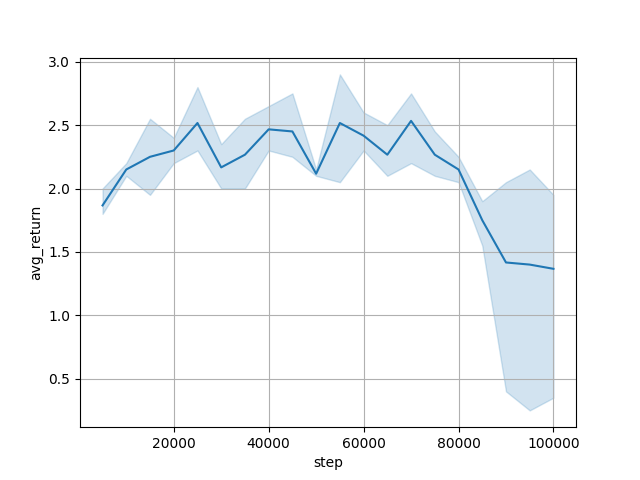
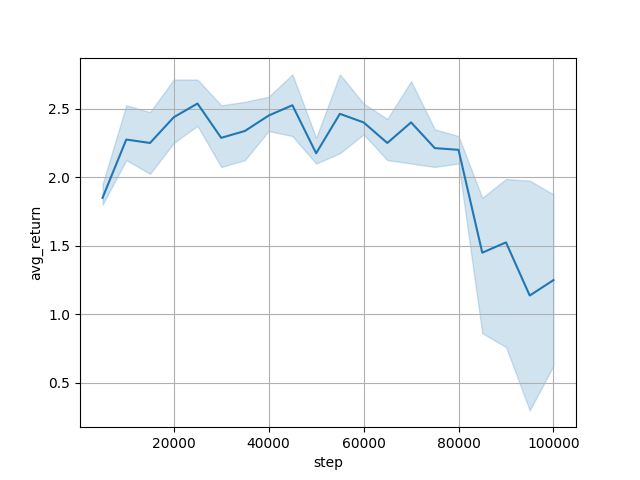
Added visualisation for 4 seeds of the trained agents.

diff --git a/analysis/plot_ability_spectrum.py b/analysis/plot_ability_spectrum.py
@@ -59,6 +59,7 @@ if __name__ == '__main__':
     import os
     from src.utils.constant_builder import PathBuilder, AgentTypes
 
+    clip_to_num_seeds = 4
     in_dirs = [
         PathBuilder.RANDOM_AGENT_LOG_DIR,
         PathBuilder.DQN_AGENT_LOG_DIR,
@@ -79,7 +80,7 @@ if __name__ == '__main__':
         save_path=path_to_save,
         legend=agent_legend,
         colors=agent_colors,
-        clip_seeds_to=3
+        clip_seeds_to=clip_to_num_seeds
     )
 
     in_dirs = [
@@ -102,7 +103,7 @@ if __name__ == '__main__':
         save_path=path_to_save,
         legend=agent_legend,
         colors=agent_colors,
-        clip_seeds_to=3
+        clip_seeds_to=clip_to_num_seeds
     )
 
     in_dirs = [
@@ -133,6 +134,6 @@ if __name__ == '__main__':
         save_path=path_to_save,
         legend=agent_legend,
         colors=agent_colors,
-        clip_seeds_to=3,
+        clip_seeds_to=clip_to_num_seeds,
         fig_size=(14, 6)
     )

diff --git a/analysis/performance_tables.py b/analysis/performance_tables.py
@@ -87,6 +87,7 @@ def print_spectrum(agent_dirs: List[str], legend: Dict[str, str], clip_seeds_to:
 
 
 if __name__ == '__main__':
+    clip_to_num_seeds = 4
     in_dirs = [
         PathBuilder.RANDOM_AGENT_LOG_DIR,
         PathBuilder.DQN_AGENT_LOG_DIR,
@@ -105,7 +106,7 @@ if __name__ == '__main__':
         AgentTypes.RANDOM: "Random",
     }
     print("Agent Scores Table:")
-    print_scores(agent_dirs=in_dirs, legend=agent_legend, clip_seeds_to=2)
+    print_scores(agent_dirs=in_dirs, legend=agent_legend, clip_seeds_to=clip_to_num_seeds)
 
     print("\nAbility Spectrum Table:")
-    print_spectrum(agent_dirs=in_dirs, legend=agent_legend, clip_seeds_to=2)
+    print_spectrum(agent_dirs=in_dirs, legend=agent_legend, clip_seeds_to=clip_to_num_seeds)

diff --git a/analysis/plot_achievement_counts.py b/analysis/plot_achievement_counts.py
@@ -50,6 +50,7 @@ if __name__ == '__main__':
     import os
     from src.utils.constant_builder import PathBuilder, AgentTypes
 
+    clip_to_num_seeds = 4
     in_dirs = [
         PathBuilder.RANDOM_AGENT_LOG_DIR,
         PathBuilder.DQN_AGENT_LOG_DIR,
@@ -76,5 +77,5 @@ if __name__ == '__main__':
             agent_dir=agent_dir,
             save_path=path_to_save,
             color=agent_color,
-            clip_seeds_to=3
+            clip_seeds_to=clip_to_num_seeds
         )

diff --git a/analysis/plot_scores_per_agent.py b/analysis/plot_scores_per_agent.py
@@ -56,6 +56,7 @@ if __name__ == '__main__':
     import os
     from src.utils.constant_builder import PathBuilder, AgentTypes
 
+    clip_to_num_seeds = 4
     in_dirs = [
         PathBuilder.RANDOM_AGENT_LOG_DIR,
         PathBuilder.DQN_AGENT_LOG_DIR,
@@ -81,5 +82,5 @@ if __name__ == '__main__':
         legend=agent_legend,
         colors=agent_colors,
         y_lim=4,
-        clip_seeds_to=2
+        clip_seeds_to=clip_to_num_seeds
     )
